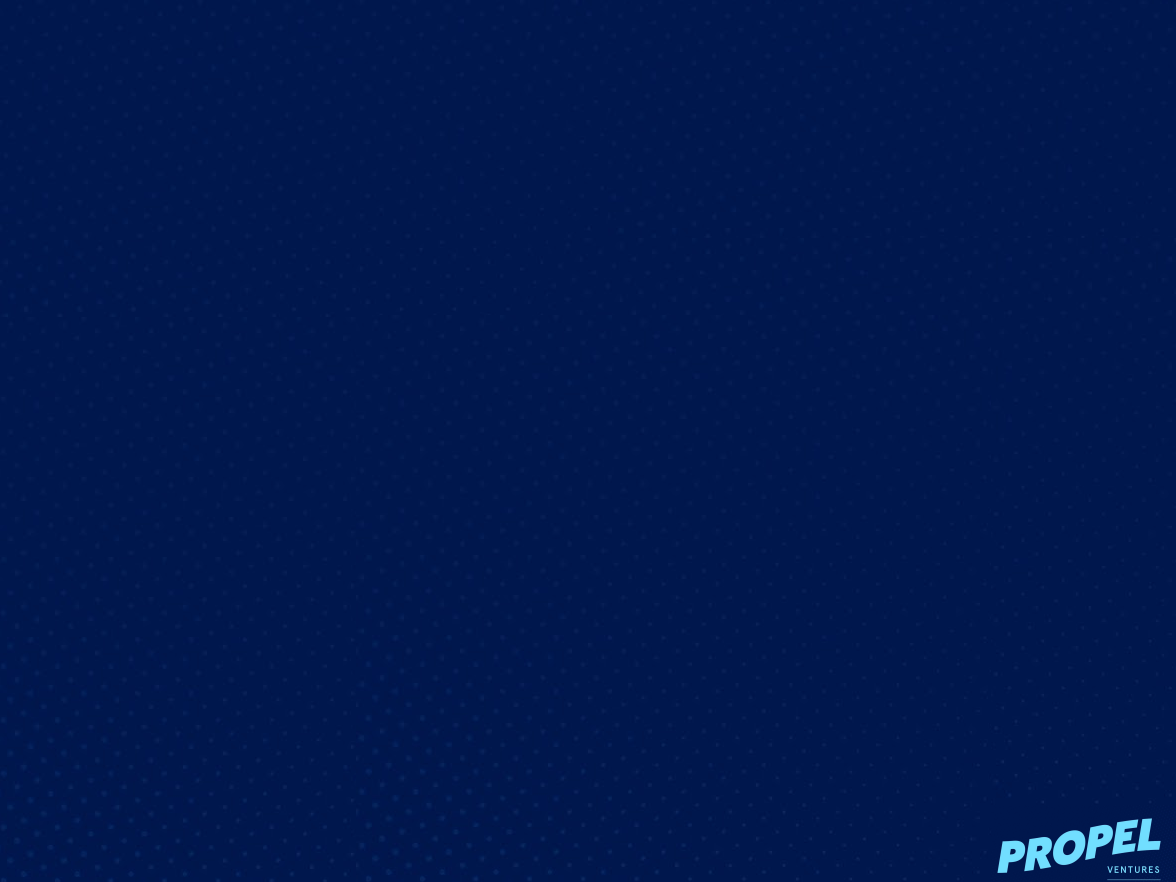
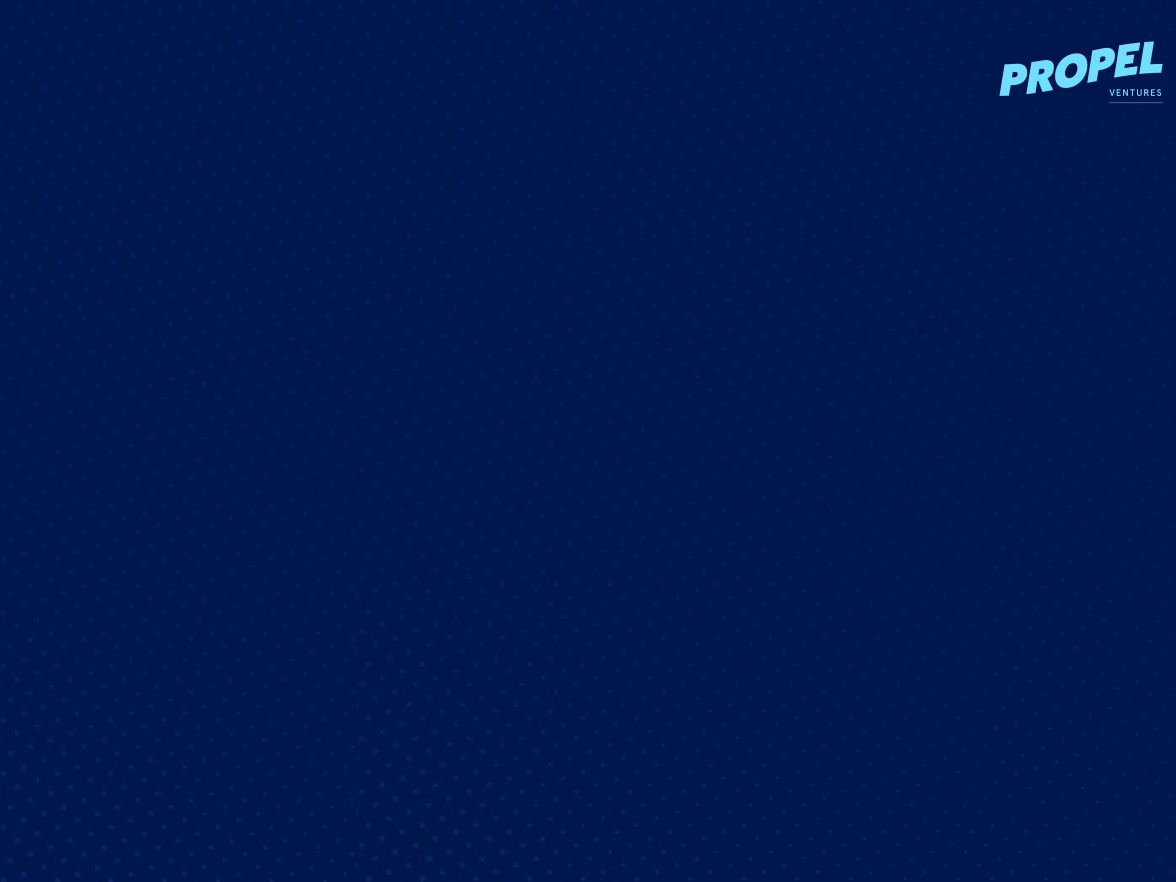
initial-edits

Changed region(s): [[0.8265, 0.9184, 1.0, 1.0], [0.8265, 0.0306, 1.0, 0.1224]]

diff --git a/index.html b/index.html
@@ -21,7 +21,7 @@
     <textarea id="source">
 
 class: center, middle
-background-image: url(https://raw.githubusercontent.com/propel-ventures/docker-kubernetes-training/main/propel.png)
+background-image: url(https://raw.githubusercontent.com/propel-ventures/docker-kubernetes-training/main/propel-background.png)
 background-size: contain
 
 # Docker+Kubernetes Training
